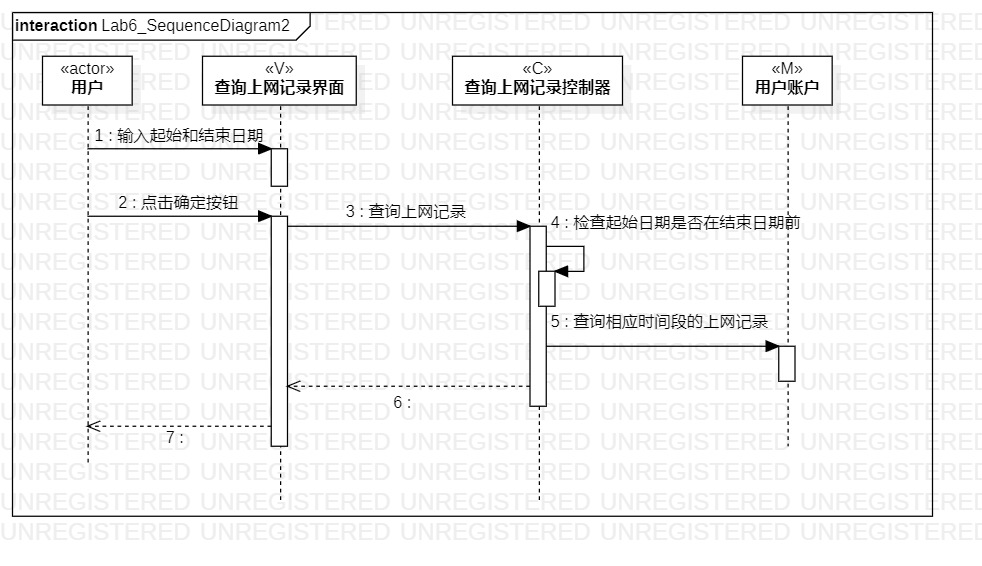
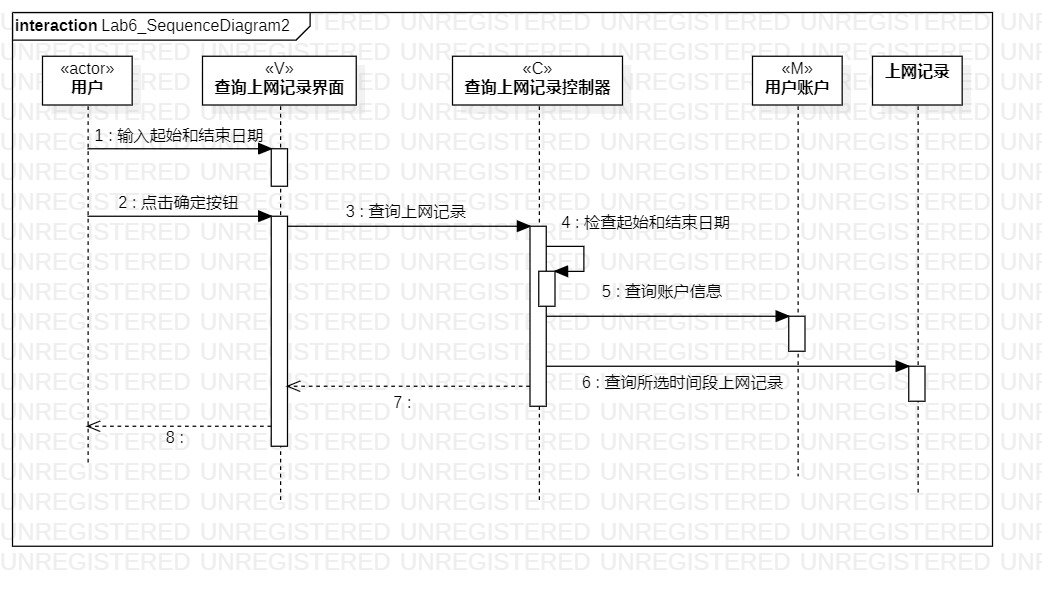
#4 #5 #6 修改查询上网记录类图和顺序图

diff --git a/students/1714080901136/lab6.md b/students/1714080901136/lab6.md
@@ -1,4 +1,4 @@
-# 实验六：交互建模
+# 实验六：交互建模
 
 ## 一、实验目标
 
@@ -28,9 +28,10 @@
 
 4.  创建“查询上网记录”的顺序图
 
-5.  根据类图创建（3+1）参与者：  
+5.  根据类图创建（4+1）参与者：  
 * 用户（actor)  
-* 用户账户（M） 
+* 用户账户（M）
+* 上网记录（M） 
 * 查询上网记录界面（V）   
 *  查询上网记录控制器（C）   
 

diff --git a/students/1714080901136/Lab4&5.md b/students/1714080901136/Lab4&5.md
@@ -34,9 +34,11 @@
 
  * Model：用户账户；
 
- * View：查询上网记录界面；
+ * Model:  上网记录；
 
- * Control：查询上网记录控制器。
+ * View：查询上网记录界面；  
+
+ * Control：查询上网记录控制器。  
 
 4. 根据MVC模式分别创建他们之间的依赖关系和包含关系
 
